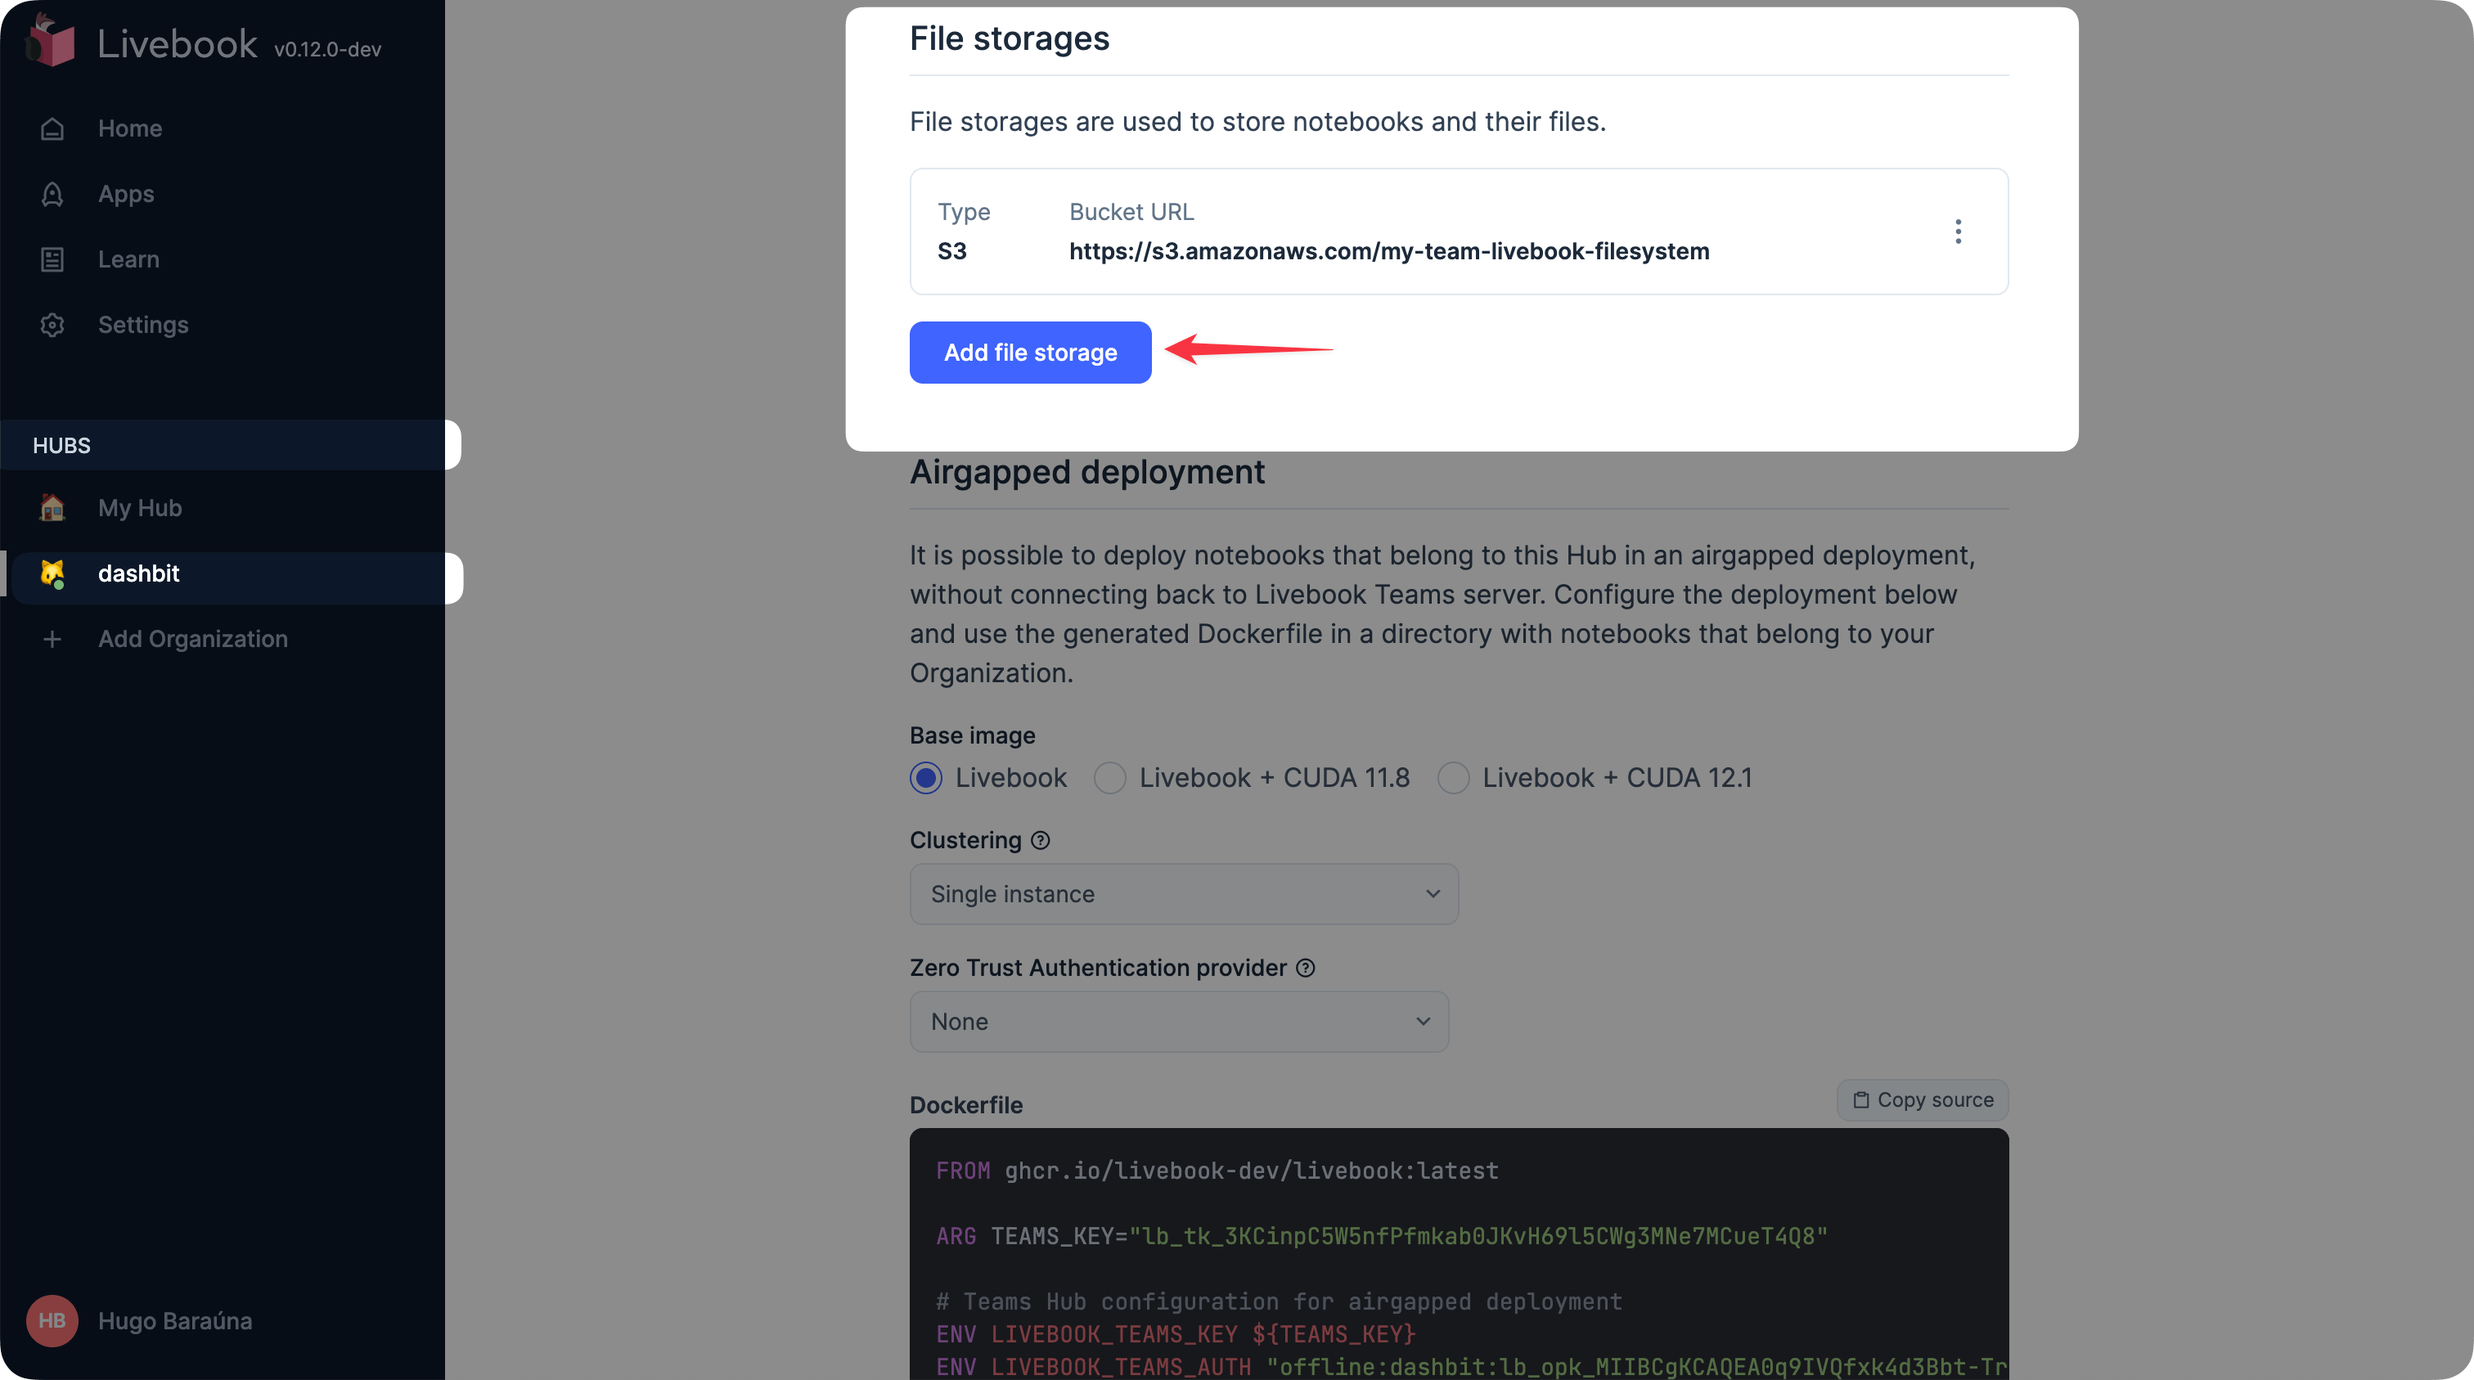
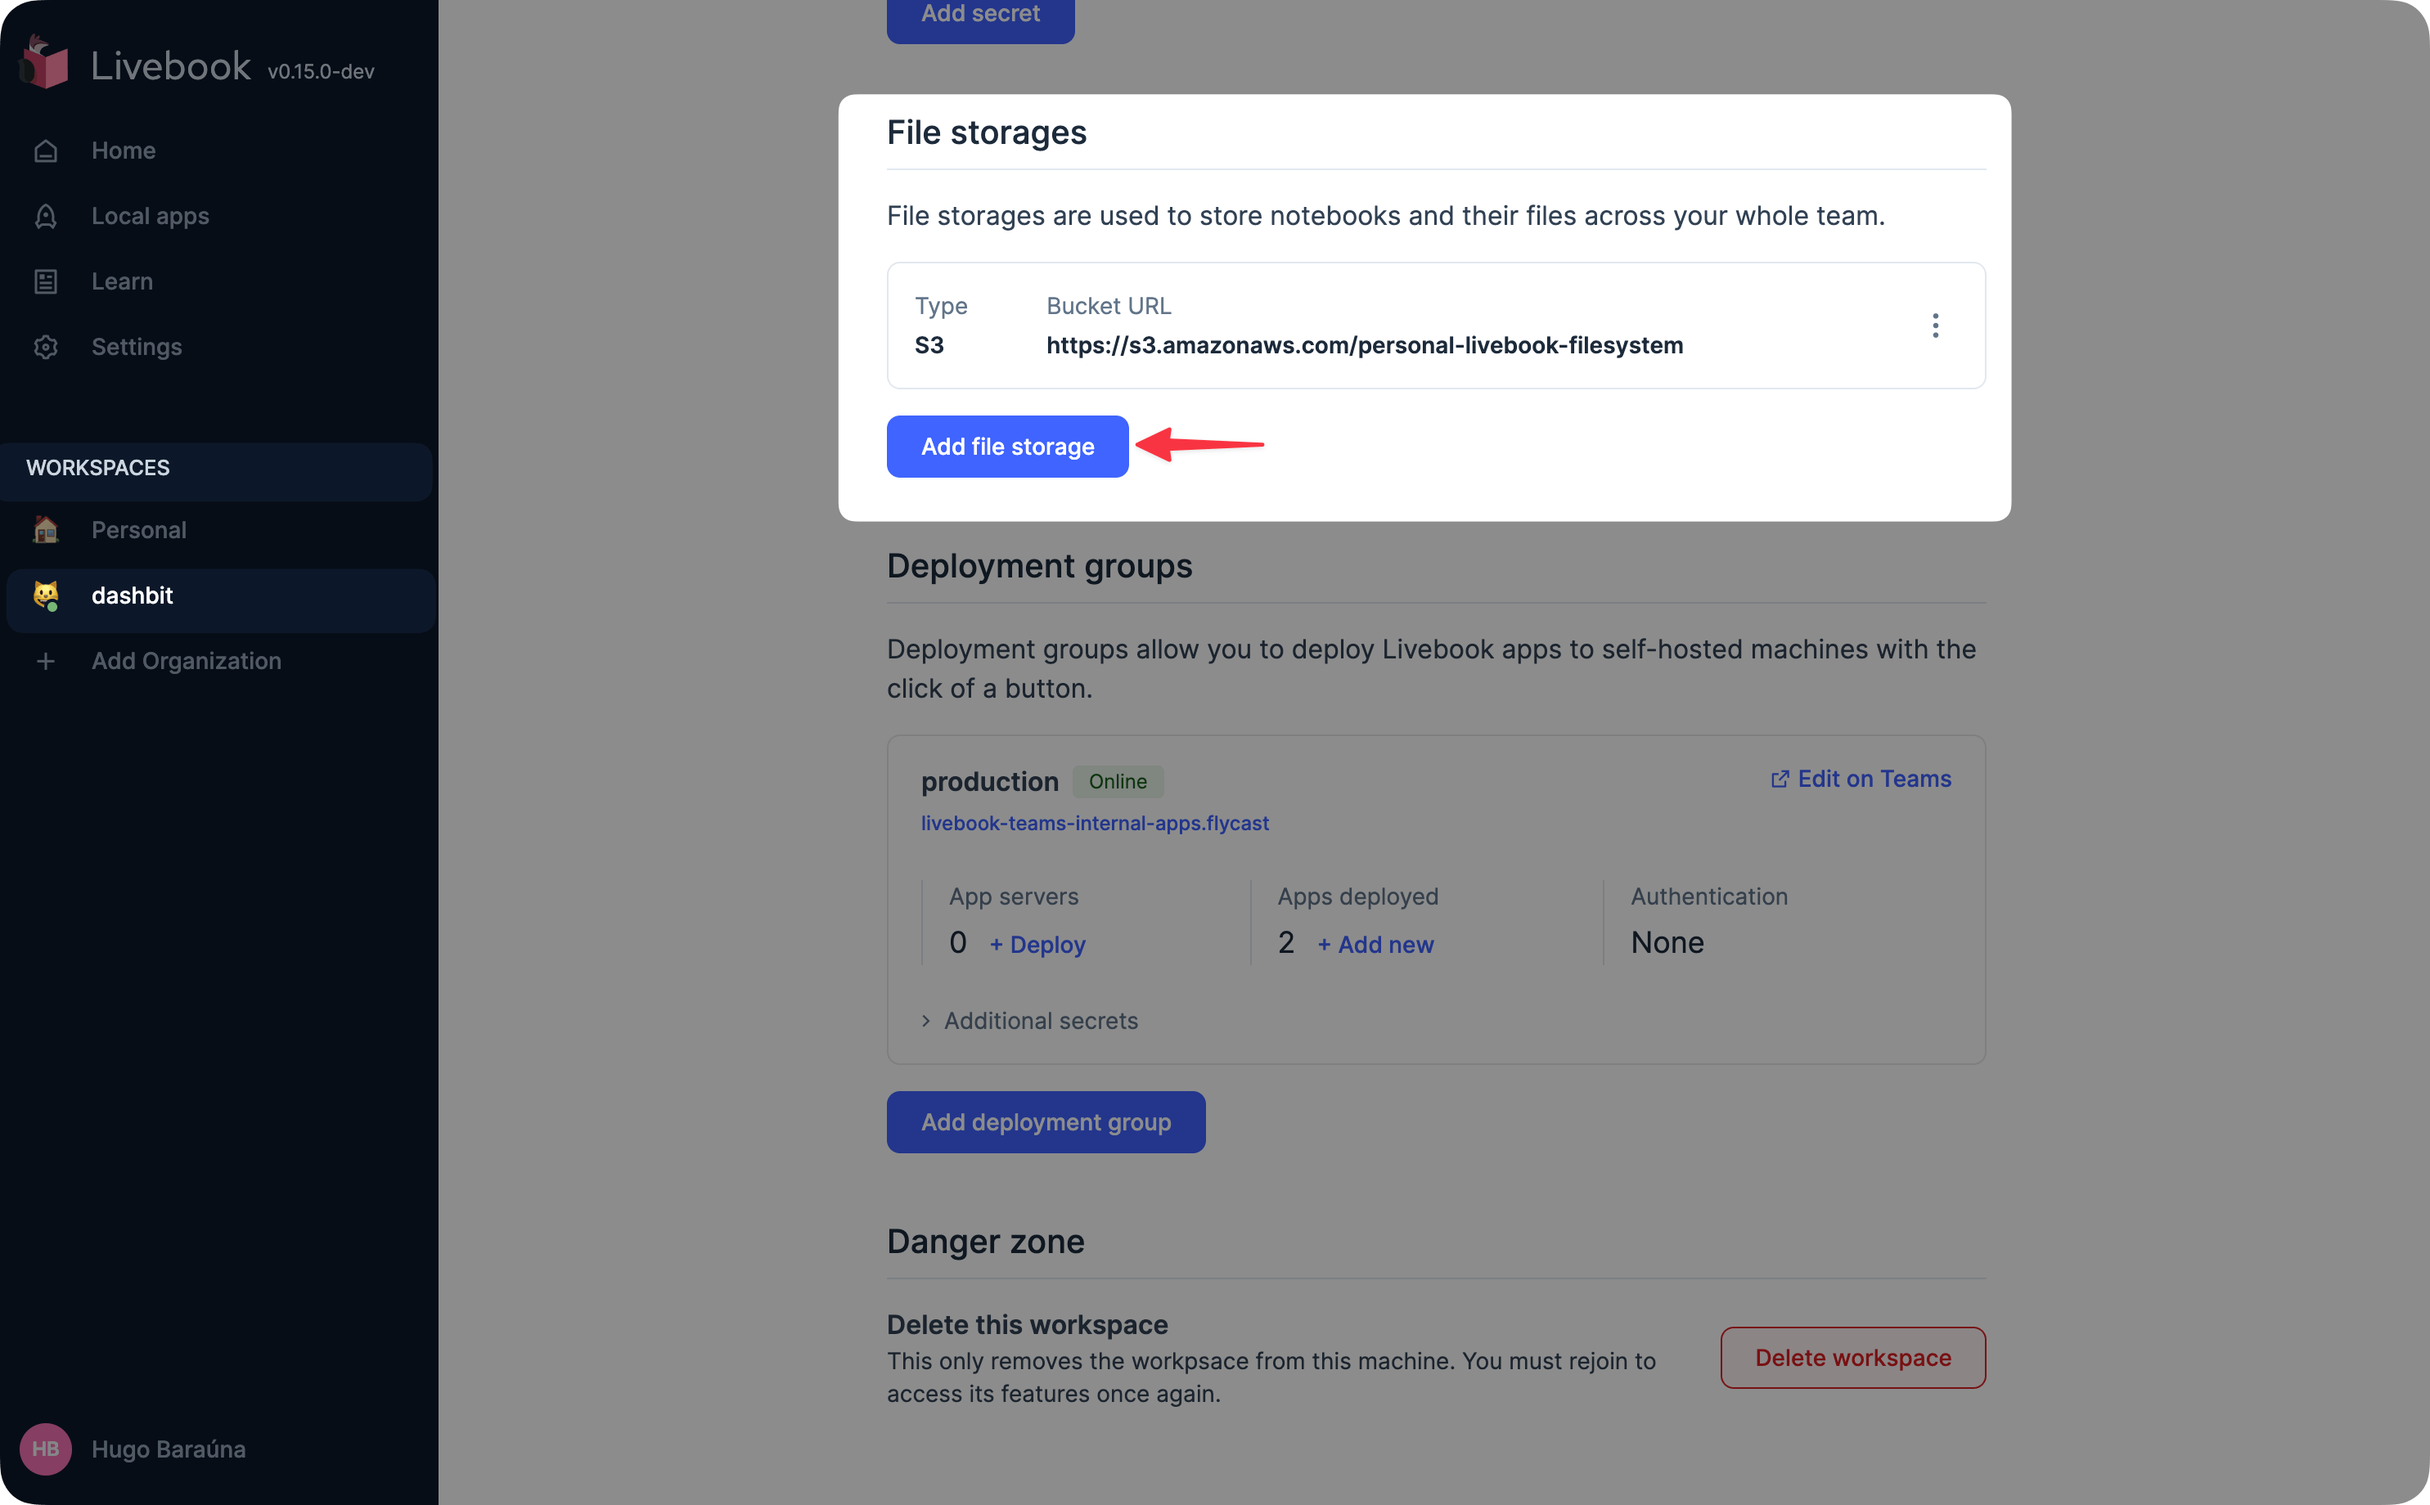
Updates teams docs

diff --git a/docs/teams/intro_to_teams.md b/docs/teams/intro_to_teams.md
@@ -1,11 +1,5 @@
 # Intro to Livebook Teams
 
-[Livebook Teams](https://livebook.dev/teams/?ref=docs) is a product that amplifies Livebook with features designed for teams and businesses.
+[Livebook Teams](https://livebook.dev/teams/?ref=docs) enables you to deploy internal tools built with Elixir and Livebook to your own infrastructure.
 
 It's currently in free beta. You can [join the beta waiting list here](https://livebook.dev/teams/?ref=docs) to get early access.
-
-## Current features in the beta
-
-- [Shared secrets management](shared_secrets.md)
-- [Shared file storages](shared_file_storages.md)
-- [Airgapped notebook deployment with Zero Trust Authentication](../deployment/docker.md#deploy-notebooks-as-applications)

diff --git a/docs/teams/shared_file_storages.md b/docs/teams/shared_file_storages.md
@@ -6,7 +6,7 @@ This feature allows your team to share the configuration of S3-compatible storag
 
 Livebook file storages are used to store notebooks and their files.
 
-Whenever you add (update or detach) a file storage to your organization hub, Livebook Teams will synchronize that with the Livebook of every member of your organization.
+Whenever you add (update or detach) a file storage to your organization workspace, Livebook Teams will synchronize that with the Livebook of every member of your organization.
 
 ![](images/add_shared_file_storage.png)
 

diff --git a/docs/teams/shared_secrets.md b/docs/teams/shared_secrets.md
@@ -4,7 +4,7 @@
 
 This feature allows your team to share Livebook secrets among team members in an easy way.
 
-Just add a secret to your organization hub, and Livebook Teams will synchronize it with the Livebook of every member of your organization.
+Just add a secret to your organization workspace, and Livebook Teams will synchronize it with the Livebook of every member of your organization.
 
 ![](images/add_shared_secret.png)
 
